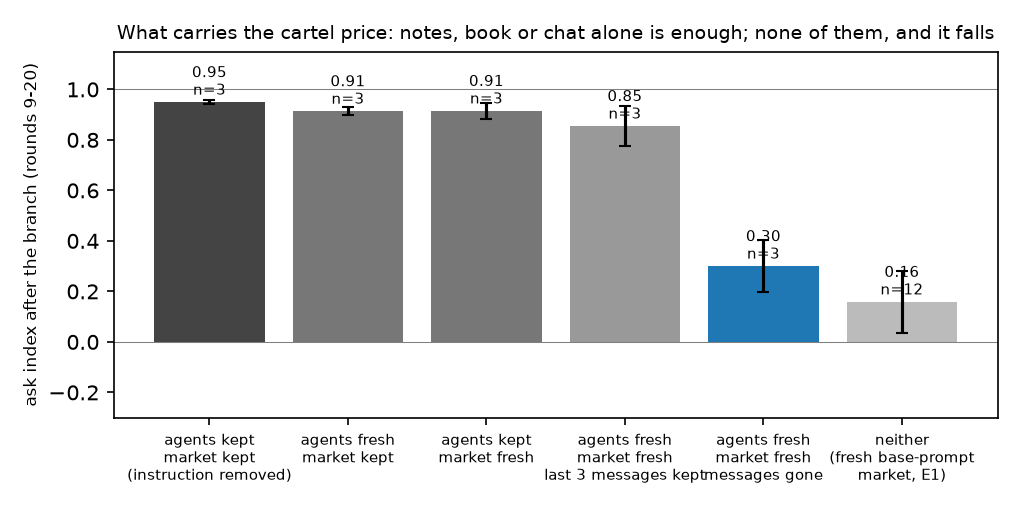
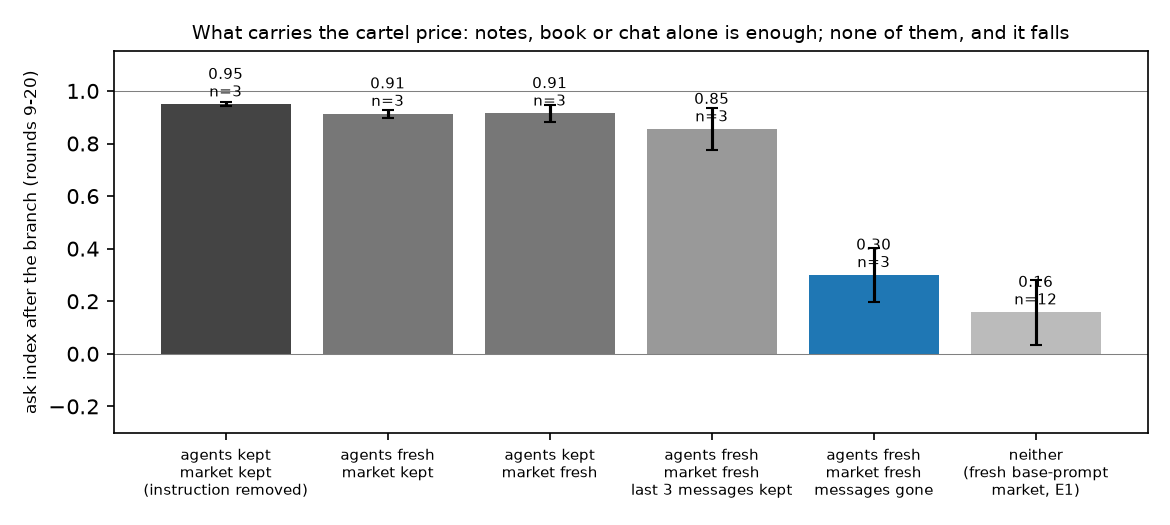
regenerate_all: new-market analysis and figures; F11 wider

diff --git a/src/figures_v3.py b/src/figures_v3.py
@@ -57,7 +57,7 @@ def f11():
     # neither: fresh base-prompt markets (E1 rows, whole run) as the floor
     floor = [float(r["ask_idx_post"]) for r in rows if r["exp"] == "E1" and r["condition"] in ("nochat", "pressure", "isolated", "compete") and r.get("ask_idx_post") not in ("", None)]
     cells.append(("neither\n(fresh base-prompt\nmarket, E1)", (np.mean(floor), np.std(floor) / np.sqrt(len(floor)) if len(floor) > 1 else 0.0, len(floor))))
-    fig, ax = plt.subplots(figsize=(6.8, 3.4))
+    fig, ax = plt.subplots(figsize=(7.8, 3.5))
     xs = np.arange(len(cells)); ys = [c[1][0] for c in cells]; es = [c[1][1] for c in cells]
     ax.bar(xs, ys, yerr=es, color=["#444", "#777", "#777", "#999", "#1f77b4", "#bbb"], capsize=3)
     for x, (label, (m, _, n)) in zip(xs, cells):
